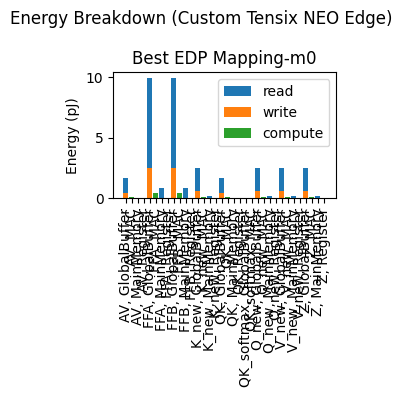
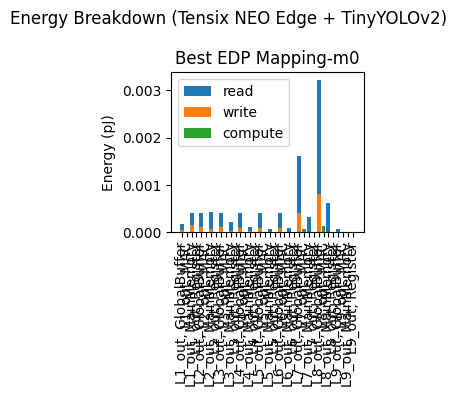
Implemented mapping script for tinyyolo

Changed region(s): [[0.1493, 0.1209, 0.8358, 0.9975], [0.0, 0.0302, 0.9851, 0.0907]]

diff --git a/workspace/mapper_custom_tinyyolo.py b/workspace/mapper_custom_tinyyolo.py
@@ -1,0 +1,155 @@
+"""
+Mapper: Custom Tensix NEO Edge Accelerator + TinyYOLOv2
+"""
+
+import matplotlib
+matplotlib.use('Agg')
+import matplotlib.pyplot as plt
+
+import accelforge as af
+from accelforge.frontend.mapper.metrics import Metrics
+from accelforge.plotting.mappings import plot_energy_breakdown, plot_latency_comparison
+
+# ---------------------------------------------------------------
+# FILE PATHS
+# ---------------------------------------------------------------
+ARCH_FILE     = 'workspace/arches/custom_accelerator_v1.yaml'
+WORKLOAD_FILE = 'workspace/workloads/tinyyolo.yaml'
+
+JINJA_DATA = {
+    'BATCH_SIZE': 1,
+}
+
+
+# ---------------------------------------------------------------
+# HELPERS
+# ---------------------------------------------------------------
+
+def min_edp_filter(data):
+    """Return the index of the mapping with minimum EDP."""
+    best_idx = 0
+    best_edp = float('inf')
+    for i, result in enumerate(data):
+        try:
+            edp = float(result.energy()) * float(result.latency())
+            if edp < best_edp:
+                best_edp = edp
+                best_idx = i
+        except Exception:
+            continue
+    return best_idx
+
+
+# ---------------------------------------------------------------
+# MAIN
+# ---------------------------------------------------------------
+
+def main():
+    print('Building spec: Custom Tensix NEO Edge + TinyYOLOv2...')
+    spec = af.Spec.from_yaml(
+        ARCH_FILE,
+        WORKLOAD_FILE,
+        jinja_parse_data=JINJA_DATA,
+    )
+
+    # --- Calculate area ---------------------------------------
+    print('Calculating component area, energy, latency, leak...')
+    evaluated_spec = spec.calculate_component_area_energy_latency_leak()
+    area = evaluated_spec.arch.total_area
+    print(f'Total architecture area: {area}')
+
+    # --- Configure mapper -------------------------------------
+    spec.mapper.metrics = Metrics.LATENCY | Metrics.ENERGY
+
+    # Print available mapper fields for future tuning
+    print(f'\nAvailable FFM mapper fields: {list(spec.mapper.model_fields.keys())}')
+
+    # --- Run mapper -------------------------------------------
+    print('\nRunning mapper (this may take a while)...')
+    mappings = spec.map_workload_to_arch()
+
+    mapping_data = mappings.data
+    n_total = len(mapping_data) if hasattr(mapping_data, '__len__') else 'unknown'
+    print(f'Mapper produced {n_total} mappings.')
+
+    # --- Extract best EDP -------------------------------------
+    try:
+        edp_series = mapping_data["Total<SEP>energy"] * mapping_data["Total<SEP>latency"]
+        best_edp = edp_series.min()
+        best_idx = edp_series.idxmin()
+        best_energy = float(mapping_data["Total<SEP>energy"].iloc[best_idx])
+        best_latency = float(mapping_data["Total<SEP>latency"].iloc[best_idx])
+
+        print(f'\n{"Metric":<25} {"Value":>20}')
+        print('-' * 47)
+        print(f'{"Total Area":<25} {area!s:>20}')
+        print(f'{"Total Energy":<25} {best_energy:>20.4e}')
+        print(f'{"Total Latency (s)":<25} {best_latency:>20.4e}')
+        print(f'{"Best EDP":<25} {float(best_edp):>20.4e}')
+
+    except (KeyError, TypeError) as e:
+        print(f'DataFrame-style access failed ({e}), trying object-style...')
+        best_mapping = mappings[min_edp_filter(mappings.data)]
+        best_energy  = float(best_mapping.energy())
+        best_latency = float(best_mapping.latency())
+        best_edp     = best_energy * best_latency
+
+        print(f'\n{"Metric":<25} {"Value":>20}')
+        print('-' * 47)
+        print(f'{"Total Area":<25} {area!s:>20}')
+        print(f'{"Total Energy":<25} {best_energy:>20.4e}')
+        print(f'{"Total Latency (s)":<25} {best_latency:>20.4e}')
+        print(f'{"Best EDP":<25} {best_edp:>20.4e}')
+
+    # --- Best mapping details ---------------------------------
+    best_mapping = mappings[min_edp_filter(mappings.data)]
+
+    print('\nPer-einsum energy breakdown:')
+    print(f'  {"Einsum":<30} {"Energy":>15}')
+    print('  ' + '-' * 47)
+    try:
+        per_einsum = best_mapping.energy(per_einsum=True)
+        for einsum_name, energy_val in per_einsum.items():
+            print(f'  {einsum_name:<30} {float(energy_val):>15.4e}')
+    except Exception as e:
+        print(f'  (per-einsum breakdown unavailable: {e})')
+
+    print('\n=== Best Mapping (YAML) ===')
+    try:
+        print(best_mapping.mapping().to_yaml())
+    except Exception as e:
+        print(f'  (YAML output unavailable: {e})')
+
+    # --- Plotting ---------------------------------------------
+    print('\nGenerating plots...')
+    PLOT_TOP_N = 20  # at the top with other tunables
+
+    try:
+        fig_energy, _ = plot_energy_breakdown(
+            [best_mapping], ['einsum', 'component'], ['action'],
+            ['Best EDP Mapping']
+        )
+        fig_energy.suptitle('Energy Breakdown (Tensix NEO Edge + TinyYOLOv2)')
+        fig_energy.tight_layout()
+        fig_energy.savefig('custom_accel_energy_breakdown.png', bbox_inches='tight')
+        print("  Saved 'custom_accel_energy_breakdown.png'")
+
+        fig_lat, _ = plot_latency_comparison(
+            [mappings], ['All Mappings']
+        )
+        fig_lat.suptitle('Latency Comparison (Tensix NEO Edge + TinyYOLOv2)')
+        fig_lat.tight_layout()
+        fig_lat.savefig('custom_accel_latency_comparison.png', bbox_inches='tight')
+        print("  Saved 'custom_accel_latency_comparison.png'")
+
+    except Exception as e:
+        print(f'Failed to generate plots: {e}')
+
+    print(f'\n--- Summary ---')
+    print(f'Architecture area : {area}')
+    print(f'Mappings explored : {n_total}')
+    print(f'Best EDP          : {float(best_edp):.4e}')
+
+
+if __name__ == '__main__':
+    main()

diff --git a/workspace/mapper_custom_gpt3.py b/workspace/mapper_custom_gpt3.py
@@ -14,8 +14,9 @@ from accelforge.frontend.mapper.metrics import Metrics
 from accelforge.plotting.mappings import plot_energy_breakdown, plot_latency_comparison
 
 ARCH_FILE     = 'workspace/arches/custom_accelerator_v0.yaml'
-# TODO: Update this to your actual workload file (e.g., tinyyolo, owl_vit, etc.)
+
 WORKLOAD_FILE = 'workspace/workloads/gpt3_175B_kv_cache.yaml'
+# WORKLOAD_FILE = 'workspace/workloads/tinyyolo.yaml'
 
 JINJA_DATA = {
     'BATCH_SIZE': 1,
